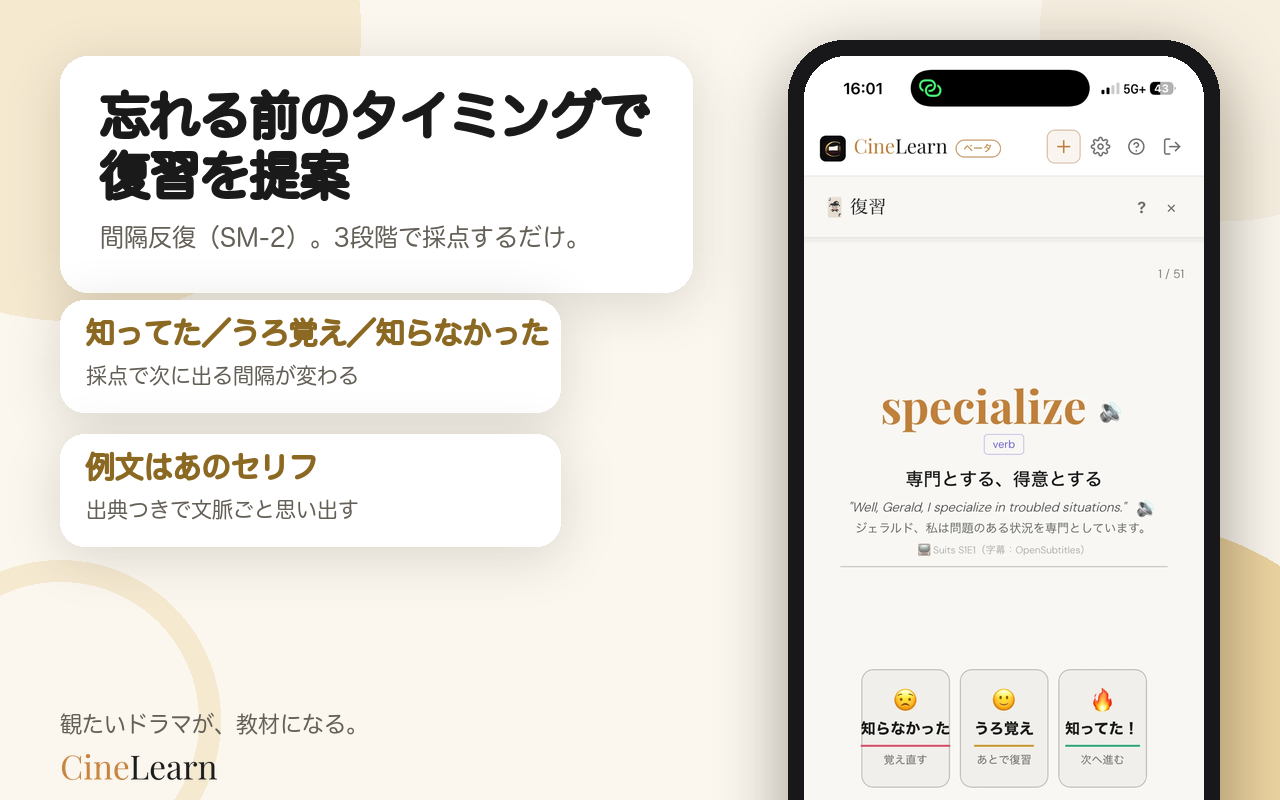
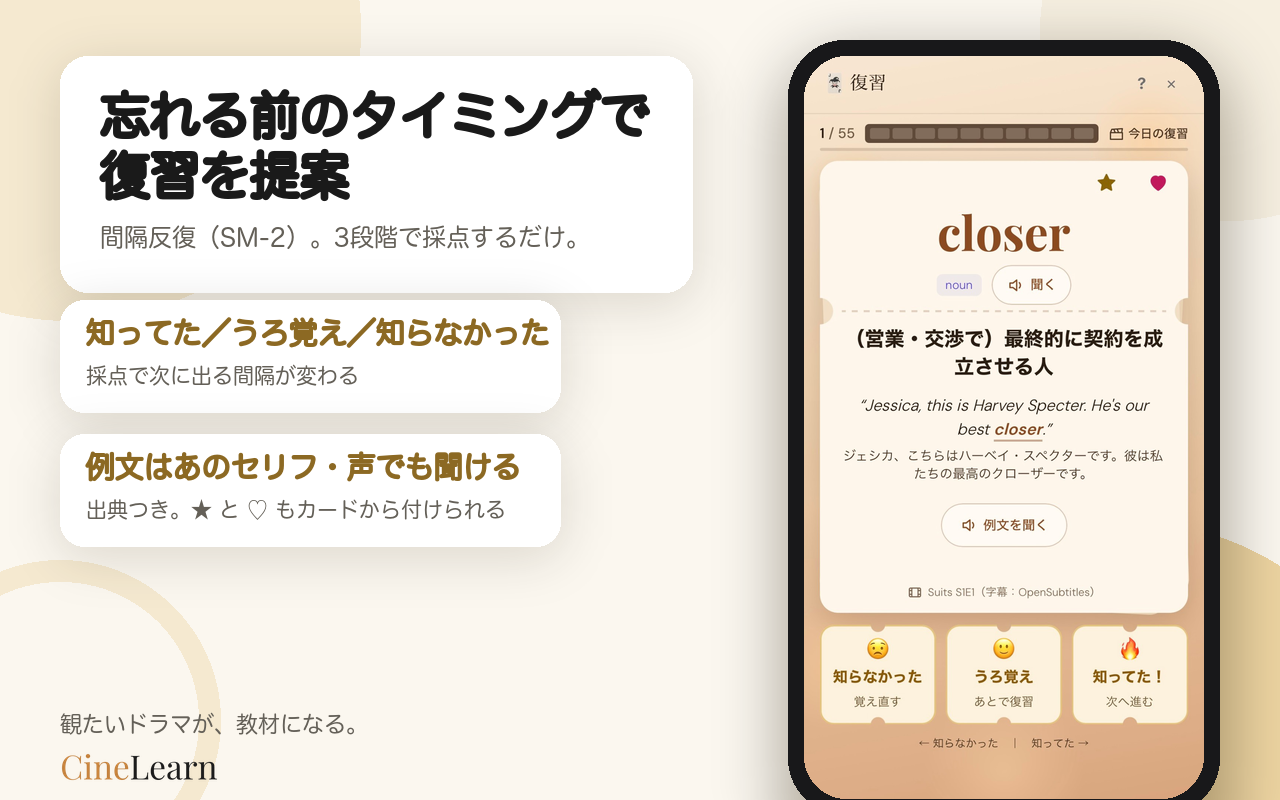
marketing: v1.2.12 のストア画像 01（単語カード）・05（復習カード）を今の画面で作り直し（オーナーの iPhone 2026-11-08）
- 01: 単語リストの closer のカード（★ 覚えたい・♡ 保存した例文・CEFR）。チップ2つ目を「「★ 覚えたい」で単語帳へ／気に入った例文には ♡ を付けられる」に
- 05: 今の復習カード（夕焼けシネマ・★♡・例文を聞く・出典）。チップ2つ目を「例文はあのセリフ・声でも聞ける／出典つき。★ と ♡ もカードから付けられる」に
- 元画像は使う部分だけを src に置いた（01 はカード部分のみ）

diff --git a/marketing/x-launch-2026-10/make_cards.py b/marketing/x-launch-2026-10/make_cards.py
@@ -158,11 +158,11 @@ def make_cws():
     A=f'{CWS_OUT}/A-listing'; B=f'{CWS_OUT}/B-launch'
     for d in (A,B): os.makedirs(d, exist_ok=True)
     # ── A: §9.4 の構成（単語カード→字幕クリック→予習→字幕マーカー→復習）
-    # A1 単語カード: 単語リスト画面の展開カード（セリフ例文＋作品名・話数）を拡大
+    # A1 単語カード: 単語リストの展開カード（セリフ例文＋作品名・話数・★ 覚えたい・♡ 保存した例文）を拡大（v1.2.12・オーナーの iPhone 2026-11-08）
     c=l_background(); l_header(c,'観た場面のセリフが、\nそのまま例文になる単語帳','作品名・話数つき。「あのシーンのあの一言」で覚える。')
     cy=310
-    for t,s in [('実際のセリフが例文に','作品名・話数も一緒に残る'),('日本語の意味と訳文つき','発音も聞ける')]: cy+=l_chip(c,60,cy,470,t,s)+22
-    l_panel(c, f'{SRC}/01-vocab-list.png', (36,715,884,1275), 590, 300, 620, light=True)
+    for t,s in [('実際のセリフが例文に','作品名・話数も一緒に残る'),('「★ 覚えたい」で単語帳へ','気に入った例文には ♡ を付けられる')]: cy+=l_chip(c,60,cy,470,t,s)+22
+    l_panel(c, f'{SRC}/word-card-v1.2.12.png', (0,0,912,692), 586, 300, 600, light=True)
     l_footer(c); c.save(f'{A}/01-word-card.png',optimize=True); print(f'{A}/01-word-card.png')
     # A2 字幕クリック→意味→保存（UI主役・映像なし）
     panel_card('字幕の単語を、\nクリックして保存','動画を止めなくていい。意味はマウスを乗せるだけ。',
@@ -178,8 +178,8 @@ def make_cws():
         f'{A}/04-subtitle-markers.png','extension-popup-star-v1.2.12.png',(470,985,1530,1146),panel_y=420,panel_w=1160,chip_w=520)
     # A5 復習カード（3段階採点）
     shot_card('忘れる前のタイミングで\n復習を提案','間隔反復（SM-2）。3段階で採点するだけ。',
-        [('知ってた／うろ覚え／知らなかった','採点で次に出る間隔が変わる'),('例文はあのセリフ','出典つきで文脈ごと思い出す')],
-        f'{A}/05-review-card.png','02-review-card.png',phone_y=40)
+        [('知ってた／うろ覚え／知らなかった','採点で次に出る間隔が変わる'),('例文はあのセリフ・声でも聞ける','出典つき。★ と ♡ もカードから付けられる')],
+        f'{A}/05-review-card.png','review-card-v1.2.12.png',phone_y=40)  # v1.2.12: 今の復習カード（オーナーの iPhone 2026-11-08）
     # ── B: X 告知画像の構成（予習→例文→ホーム→歩み→拡張）。見出しは告知の文言、チップは §9.3 の表現に寄せる
     shot_card('観る前に、\n3分だけ予習。','今夜観る話の重要単語だけをリストに。',
         [('作品と話数を選ぶだけ','あとは自動で単語リストに'),('基礎単語は自動でスキップ','覚えるべき語だけに絞る')],
